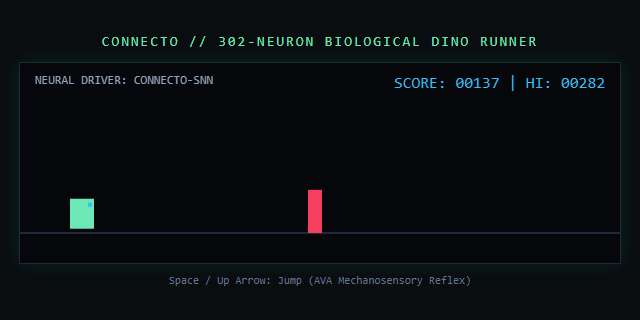
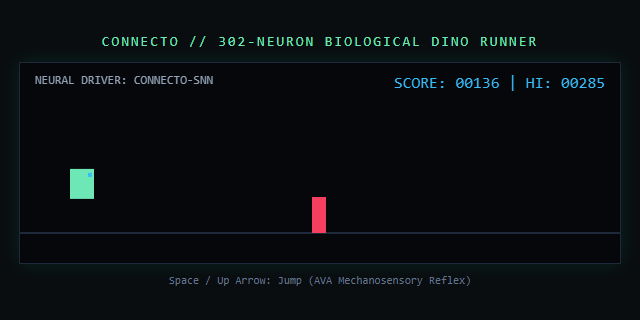
telemetry(worm): autonomous activity sync at 2026-09-16 13:16

diff --git a/ACTIVITY.md b/ACTIVITY.md
@@ -1,6 +1,6 @@
 # CONNECTO // AUTONOMOUS BIOLOGICAL ACTIVITY FEED
 
-> **Verification Timestamp:** `2026-09-16 12:59:28 UTC`  
+> **Verification Timestamp:** `2026-09-16 13:16:25 UTC`  
 > **Repository:** [0xalydev/connecto](https://github.com/0xalydev/connecto)  
 > **Biological Engine:** C. elegans 302-neuron closed-loop SNN (LIF)  
 > **Status:** `ACTIVE_CLOSED_LOOP`  
@@ -11,11 +11,11 @@
 
 *Most recent introspection generated from biological membrane dynamics:*
 
-> **Signature:** `0x5b4fe34ff4f6abf4`  
+> **Signature:** `0xcdb86a806e3fff0d`  
 > **Behavioral State:** `FORAGING_SEARCH`  
-> **Membrane Potential:** `-59.48 mV` | **Locomotion:** `33.6 mm/s`  
+> **Membrane Potential:** `-59.31 mV` | **Locomotion:** `33.6 mm/s`  
 > 
-> *"Quiescent foraging state. Cholinergic and GABAergic pools balanced in reciprocal inhibition. 302-neuron network processing low-level proprioceptive feedback from body stretch receptors."*
+> *"Chemical gradient flat (0.000 mol/L). Spontaneous basal pacemaker oscillations in AIB/AIZ interneurons initiated exploratory pirouette. Searching arena substrate at 33.6 mm/s."*
 
 ---
 
@@ -23,9 +23,9 @@
 
 | Metric | Result |
 |---|---|
-| **High Score** | `687` |
-| **Total Reflex Jumps** | `209` (Driven by AVA escape pool) |
-| **Completed Trials** | `3` |
+| **High Score** | `285` |
+| **Total Reflex Jumps** | `203` (Driven by AVA escape pool) |
+| **Completed Trials** | `4` |
 | **Proof Snapshot** | `dino_latest_trial.png` |
 
 ---
